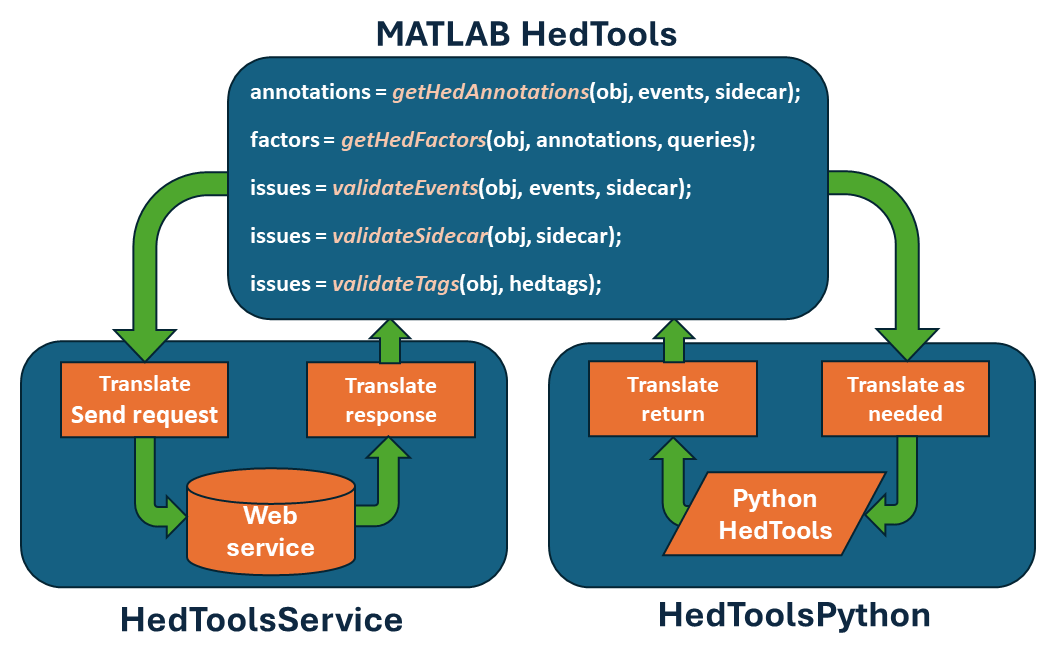
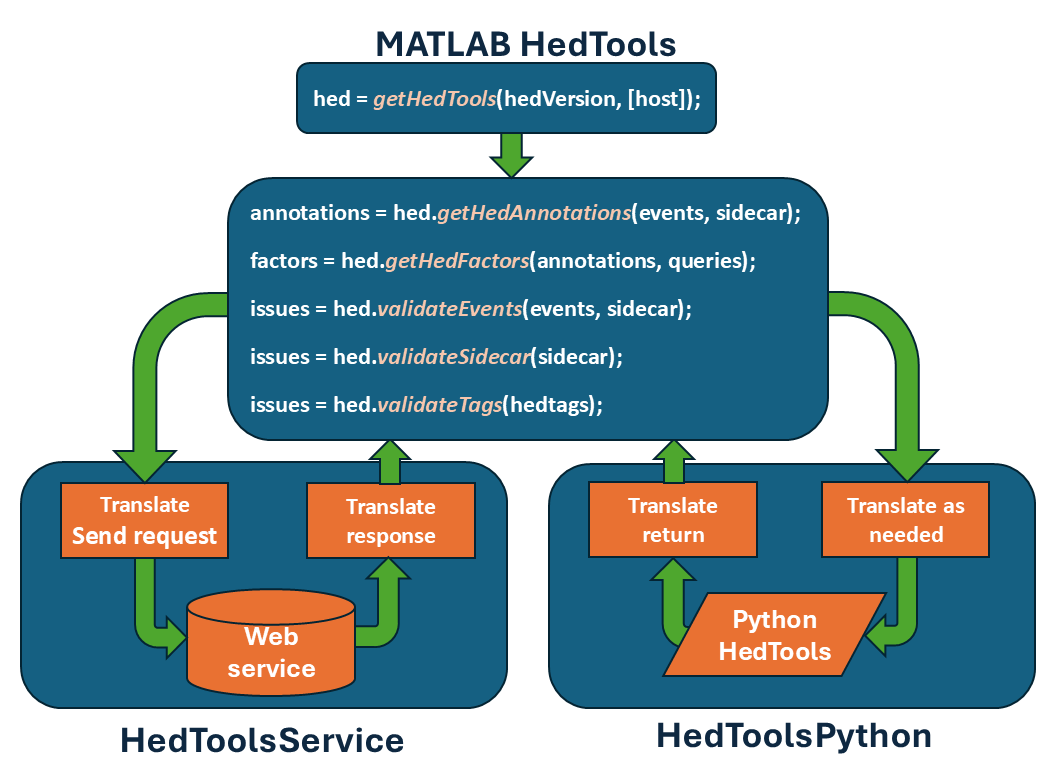
Modified the tool diagram

diff --git a/docs/source/HedMatlabTools.md b/docs/source/HedMatlabTools.md
@@ -8,12 +8,19 @@ These MATLAB wrappers allow MATLAB users to use HED without learning Python.
 ## Tool overview
 
 The HED MATLAB tools provide the following interface to HEDTools as explained in more detail in the following sections. 
-The MATLAB HEDTools package provides two interchangeable implementations of these functions -- calling the HED Python tools through a web service or directly calling the Python HEDTools.
+The MATLAB HEDTools package provides two interchangeable implementations of these functions -- 
+calling the HED Python tools through a web service or directly calling the Python HEDTools.
+
+To use HED tools, you first create a HED object by calling `getHedTools`. 
+If you provide the optional host argument, the HED tools use services, otherwise
+direct calls to Python. Once created, you simply call the available methods
+using that reference. The process is summarized in the following diagram.
 
 ![HED MATLAB tools](./_static/images/MatLabHedToolsCloseFit.png). 
 
 Both approaches take MATLAB data as input and translate these values as needed to access the HEDTools.
 After making the call, the implementation translates the results back into MATLAB data types.
+The MATLAB HedTools accept a variety of different types of MATLAB variables as input.
 
 Calling the HED MATLAB tools using web services requires no installation beyond downloading the 
 HED MATLAB package, but its use requires Internet access. 
